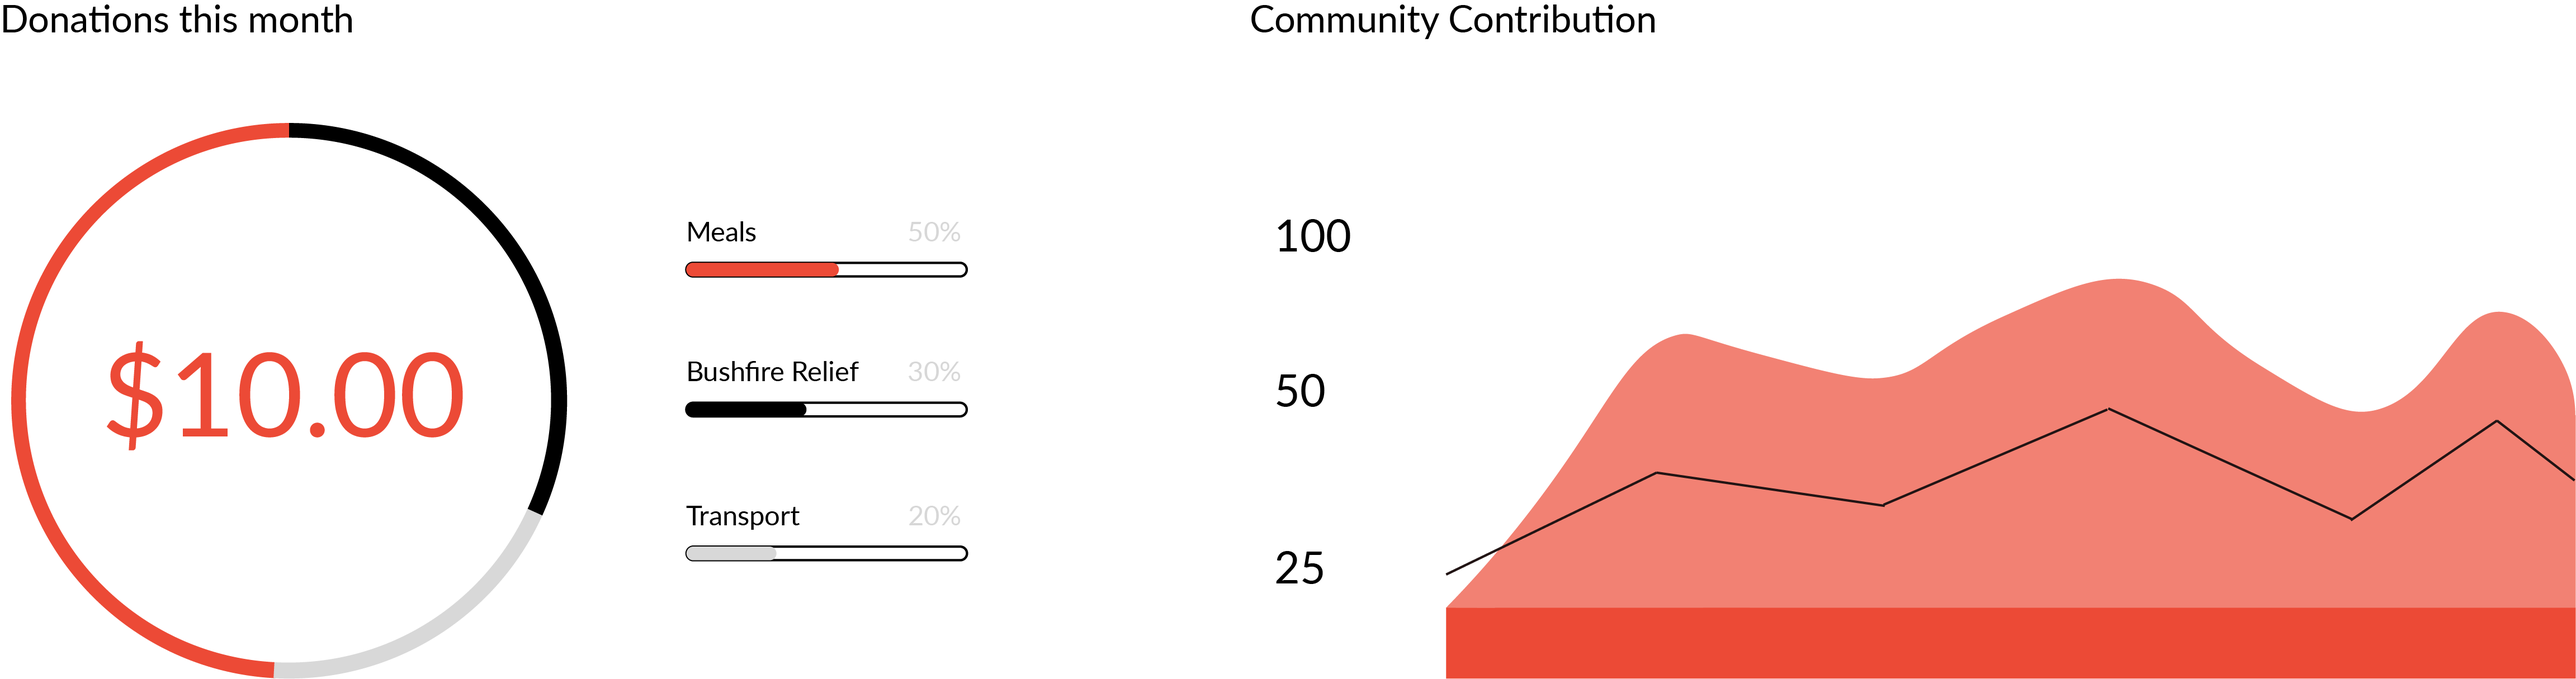
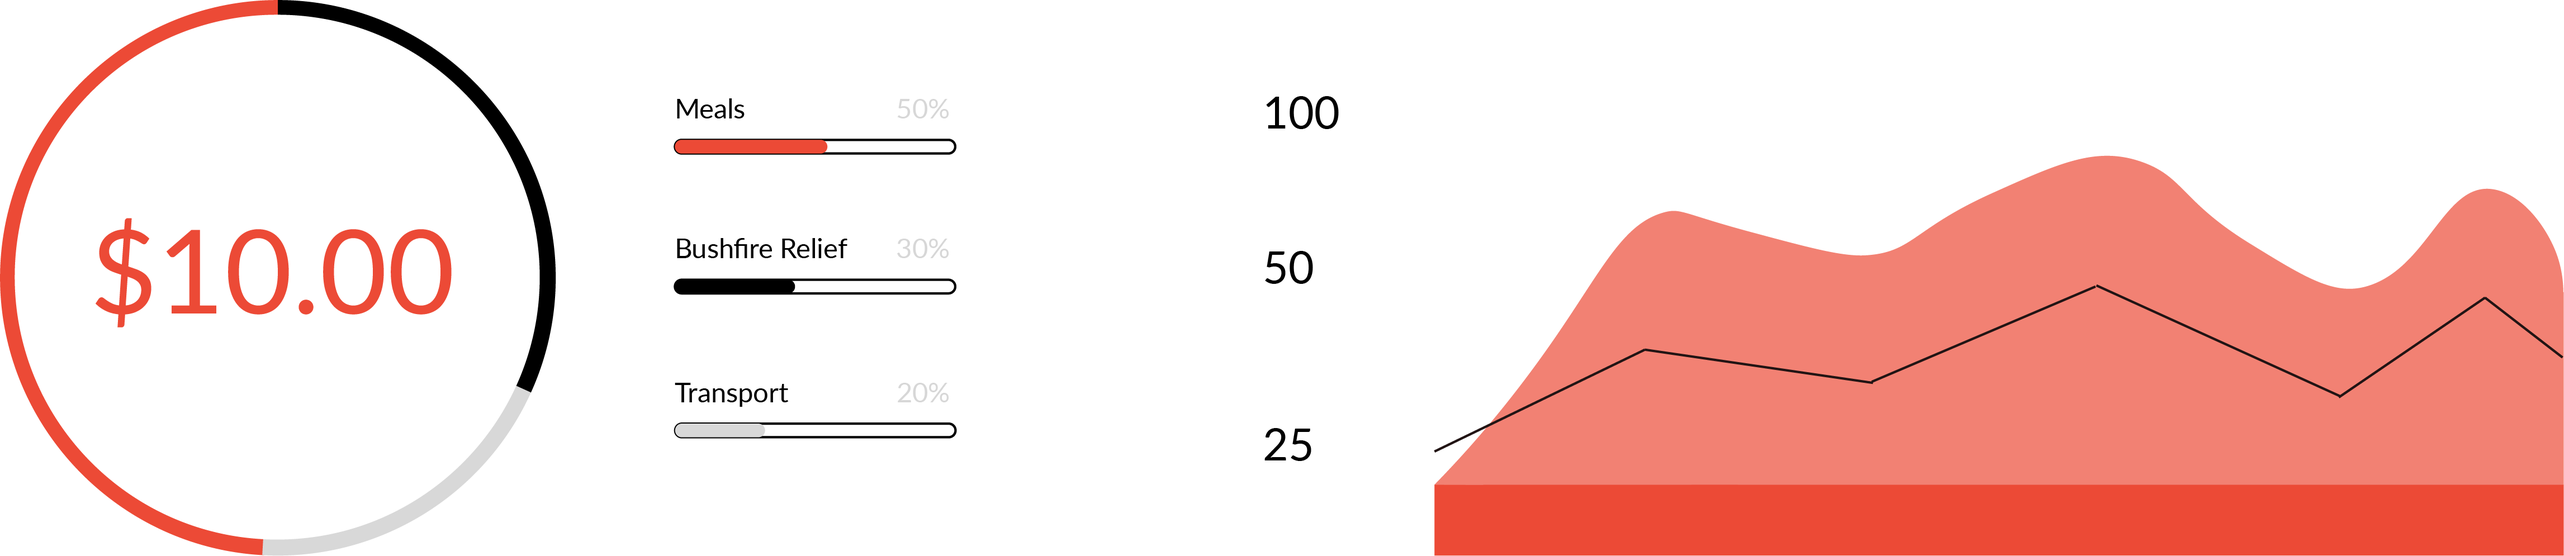
stories update 1

diff --git a/style.css b/style.css
@@ -17,6 +17,12 @@ h1 {
   text-align: center;
 }
 
+h2 {
+  color: black;
+  font: 'Lato';
+  text-align: left;
+}
+
 h3 {
   color:white;
   font: 'Lato';
@@ -32,6 +38,7 @@ h3 {
 /*content*/
 .center {
   display: block;
+  padding: 20px;
   margin-left: auto;
   margin-right: auto;
 }
@@ -56,6 +63,8 @@ h3 {
 /*welcome*/
 .welcome {
   background-image: url("image1.jpg");
+  left: 0px;
+  right: 0px;
   padding: 200px;
 }
 

diff --git a/index.html b/index.html
@@ -28,7 +28,10 @@
 
    <!--maincontent --> 
   <div class="content"> 
-       <img src="donation_stats.png" width="800" class="center">
+      <h2>This months donation contribution</h2>
+       <img src="donation_stats.png" width="1000" class="center">
+       <h2>What did your donation mean this month?</h2>
+       <img src="image2.jpg" width="90%">
     </div>
     
 
